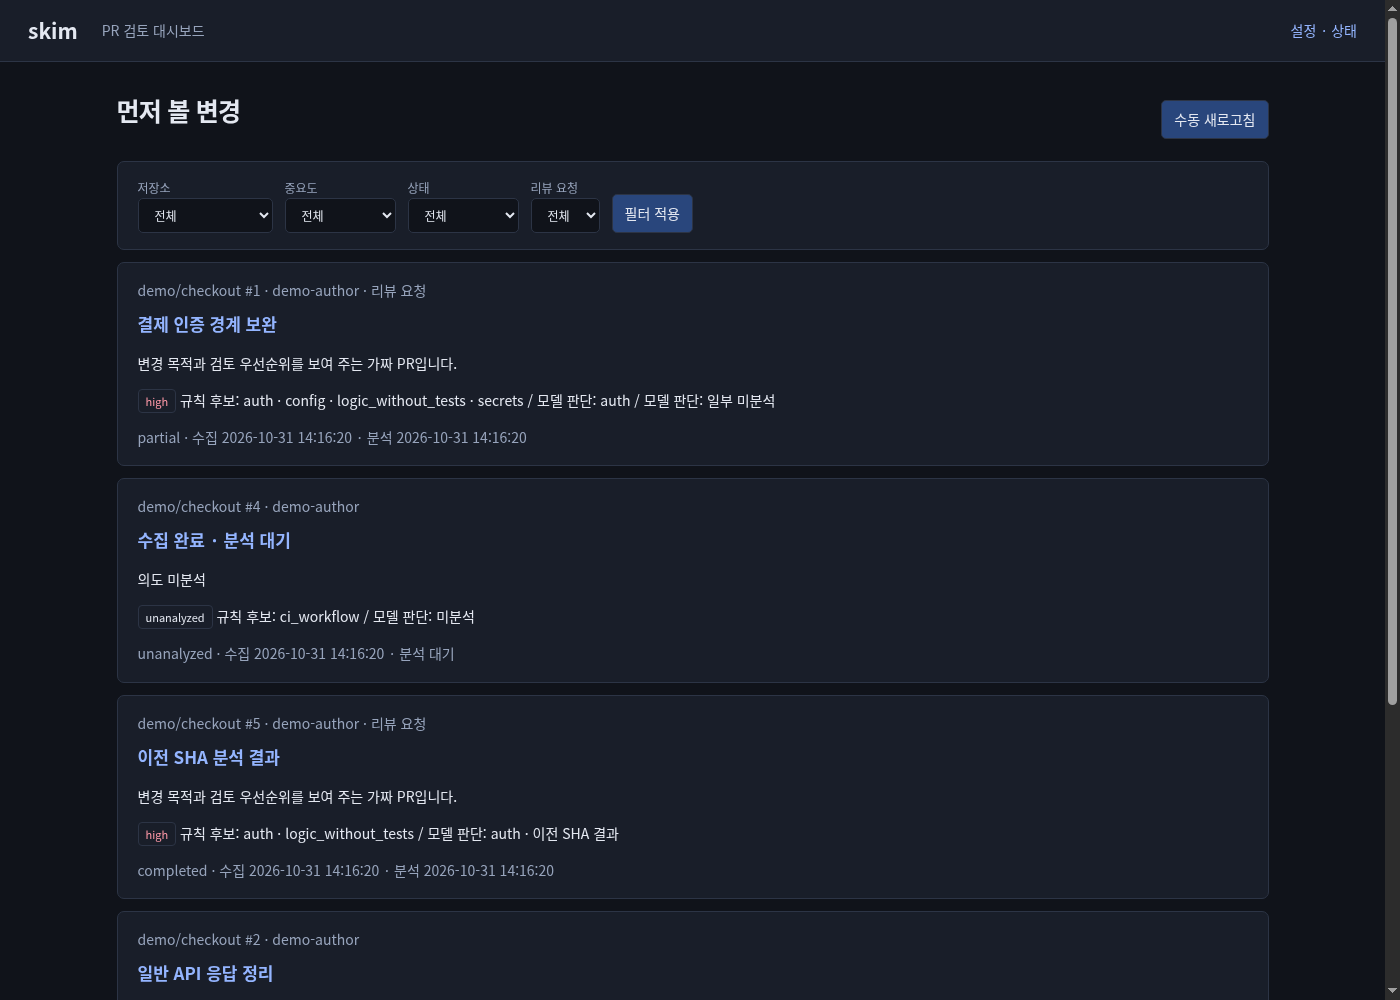
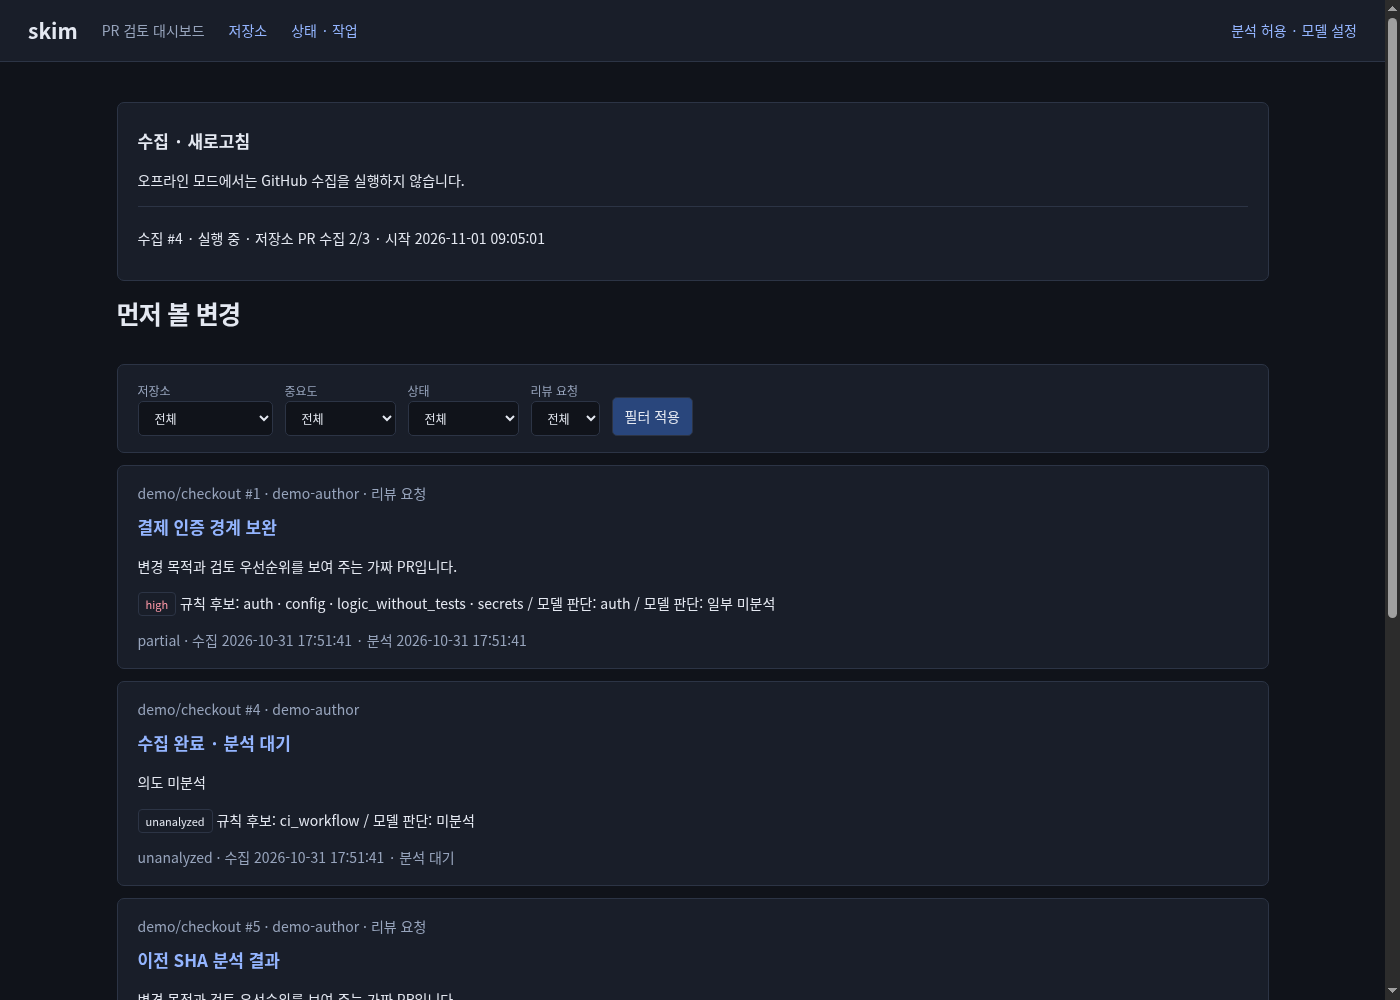
문서: README 웹 우선 흐름과 화면 스크린샷

diff --git a/README.md b/README.md
@@ -1,35 +1,15 @@
 # skim
 
 GitHub PR을 모아 변경 목적과 중요도를 보여주는 로컬 검토 도우미입니다.
+터미널에서 **`skim`만 실행하면 로컬 서버가 시작되고 브라우저가 열립니다.**
+웹에서 저장소 연결, 분석 허용, 수집·새로고침, PR 분석, 상태 점검과 모델 설정을 진행하세요.
 
 ![데모 데이터로 본 skim 대시보드](docs/images/dashboard.png)
 
-## 주요 기능
+## 설치와 시작
 
-- 등록 저장소의 열린 PR과 개인·팀 리뷰 요청을 한곳에서 확인합니다.
-- 허용한 저장소만 Codex로 분석합니다. 변경 목적과 파일·변경 단위별 중요도를 보여줍니다.
-- 규칙 후보와 미분석 부분을 먼저 보여줍니다. 목록 필터와 diff 상세 보기를 제공합니다.
-- 로컬 웹에서 5분 주기 수집과 수동 갱신을 지원합니다.
-- 본인이 작성한 PR은 조건이 맞으면 로컬 세션 조회 앱인 Sessio의 세션으로 연결합니다.
-
-## 요구 사항
-
-- Python 3.11 이상. 별도 Python 패키지는 필요하지 않습니다.
-- Git과 GitHub CLI(`gh`). GitHub.com 로그인과 대상 저장소 읽기 권한이 필요합니다.
-- 분석 시 Codex CLI 안정 버전 0.165.0 이상과 로그인이 필요합니다. 필수 격리 플래그 검사도 통과해야 합니다.
-- 분석 전 `skim codex-home init`과 `skim doctor --probe`를 실행해야 합니다.
-
-설치 후 사용할 터미널에서 로그인하세요.
-
-```bash
-gh auth login
-codex login
-```
-
-각 CLI의 로그인 절차가 완료되어야 합니다. 조직 저장소는 SSO 승인과 팀 접근 권한도 확인하세요.
-데모는 GitHub·Codex 로그인 없이 볼 수 있습니다.
-
-## 설치
+Python 3.11 이상, Git, GitHub CLI(`gh`)가 필요합니다. 별도 Python 패키지는 필요하지 않습니다.
+분석에는 로그인된 Codex CLI 안정 버전 0.165.0 이상과 필수 격리 플래그 지원이 필요합니다.
 
 Mac 터미널에서 실행합니다.
 
@@ -38,152 +18,146 @@ git clone https://github.com/nowgnas/skim.git
 cd skim
 ./setup.sh
 export PATH="$HOME/.local/bin:$PATH"
+gh auth login
+skim
 ```
 
-`설치 완료: ~/.local/bin/skim (PATH에 ~/.local/bin 추가)`가 출력됩니다.
-설치 스크립트는 이 저장소의 `bin/skim`을 가리키는 심볼릭 링크를 만듭니다.
-다운로드나 관리자 권한은 필요하지 않습니다. 저장소 폴더를 유지하세요.
-PATH 설정은 현재 터미널에 적용됩니다. 계속 사용하려면 같은 `export` 줄을 `~/.zshrc`에 추가하세요.
+설치 스크립트는 `~/.local/bin/skim`에서 저장소의 `bin/skim`으로 심볼릭 링크를 만듭니다.
+저장소 폴더를 유지하세요. PATH를 계속 적용하려면 위 `export` 줄을 `~/.zshrc`에 추가하세요.
+GitHub.com 로그인과 대상 저장소 읽기 권한이 필요하며, 조직은 SSO 승인과 팀 접근 권한도 확인하세요.
+
+브라우저가 열리지 않으면 터미널에 출력된 URL로 접속하세요. 이미 실행 중이면 기존 서버에서 새 진입 URL을 발급합니다.
+서버를 종료하려면 실행한 터미널에서 Ctrl-C를 누르세요.
+
+## 웹에서 사용하기
+
+### 1. 저장소 연결
+
+상단 **저장소**에서 **접근 가능한 저장소 불러오기**를 누르세요.
+현재 `gh` 계정이 접근할 수 있는 개인·조직 저장소 목록에서 선택하거나, `owner/repo`를 직접 입력해 연결할 수 있습니다.
+목록 조회와 직접 입력의 읽기 접근 확인은 백그라운드 작업으로 실행됩니다.
+등록만으로 LLM 분석을 허용하지 않습니다.
+
+연결 해제는 로컬 추적을 해제합니다. 리뷰 요청으로 남은 PR과 분석 정책은 보존되므로,
+코드 전송 동의를 철회하려면 설정에서 분석 허용도 별도로 끄세요.
+
+![데모 저장소 연결 화면](docs/images/repos.png)
+
+### 2. 분석 허용과 모델 설정
+
+**분석 허용 · 모델 설정**에서 저장소별 또는 조직별 LLM 분석을 명시적으로 허용하세요. 기본값은 꺼짐입니다.
+저장소의 명시적 허용·거부가 조직 정책보다 우선하며, 조직 설정 상속도 선택할 수 있습니다.
+조직 허용은 리뷰 요청으로 발견된 저장소를 포함해 해당 조직 저장소 전체에 적용됩니다.
+
+**허용하면 PR 코드·diff와 제목·설명이 Codex CLI를 통해 모델 서비스로 전송됩니다.
+민감 정보 제외는 완전하지 않으며 서비스의 전송·보존 정책이 적용됩니다.**
+저장소 연결, 수집, 분석 버튼 클릭만으로 동의가 켜지지 않습니다.
+
+같은 화면 아래 **모델 설정**의 `codex_model` 입력에 계정에서 사용할 수 있는 모델명을 저장하세요.
+파일 값과 실제 적용값을 함께 표시합니다. `SKIM_CODEX_MODEL` 환경 변수가 파일 설정보다 우선합니다.
+모델을 바꾸면 다음 작업부터 적용되며 실행 중인 작업은 기존 모델을 사용합니다.
+
+![데모 분석 허용과 모델 입력 화면](docs/images/settings.png)
+
+실제 분석을 처음 준비할 때는 터미널에서 다음을 실행하세요.
 
 ```bash
-skim --help
-```
-
-`repo`, `analysis`, `collect`, `analyze`, `web`, `doctor`, `codex-home` 명령 목록이 표시됩니다.
-
-## 사용법
-
-아래 `owner/repo`는 실제 GitHub 저장소 이름으로 바꾸세요.
-
-### 1. 저장소 등록
-
-```bash
-skim repo add owner/repo
-skim repo list
-```
-
-등록 완료 메시지와 추적 목록이 표시됩니다. 등록만으로 분석 전송을 허용하지 않습니다.
-
-### 2. 분석 전송 허용
-
-코드를 모델 서비스로 보내도 되는 저장소만 명시적으로 허용하세요.
-
-```bash
-skim analysis allow owner/repo
-```
-
-코드 전송 안내와 `저장소 분석 정책을 변경했습니다.`가 출력됩니다.
-허용을 취소하려면 다음을 실행합니다.
-
-```bash
-skim analysis deny owner/repo
-```
-
-정책 변경 메시지가 표시되고 이후 해당 저장소의 분석 전송이 차단됩니다.
-
-### 3. PR 수집
-
-```bash
-skim collect
-```
-
-`PR N개를 수집했습니다.`가 출력됩니다. 열린 PR과 리뷰 요청의 스냅샷을 로컬에 저장합니다.
-
-### 4. 모델 지정과 분석 준비
-
-`~/.config/skim/config.json`의 기존 JSON 객체에 `"codex_model"` 항목을 추가하는 것을 권장합니다.
-`SKIM_HOME`을 쓰면 `$SKIM_HOME/config/config.json`을 편집합니다.
-다음 모델명은 예시입니다. 계정에서 사용할 수 있는 모델을 지정하세요.
-
-```json
-{
-  "codex_model": "gpt-5.4"
-}
-```
-
-설정 후 분석 준비를 실행합니다.
-
-```bash
+codex login
 skim codex-home init
 skim doctor --probe
 ```
 
-인증 링크 생성 메시지와 항목별 검사 결과가 표시됩니다. 모두 통과하면 분석할 수 있습니다.
-`--probe`는 저장소 코드 없이 실제 모델을 호출합니다. 성공 기록은 7일간 유효합니다.
-모델을 바꾸면 다시 검사하세요.
+`--probe`는 저장소 코드 없이 **실제 모델을 호출**하는 격리 검사입니다. 성공 기록은 7일간 유효하며,
+모델 변경 후에는 다시 검사해야 합니다. 웹은 probe를 자동 실행하지 않습니다.
+환경 변수로 모델을 지정했다면 서버 실행과 probe에 같은 값을 사용하세요.
 
-현재 터미널에서만 모델을 바꾸려면 `export SKIM_CODEX_MODEL=gpt-5.4`를 사용할 수 있습니다.
-환경 변수는 파일 설정보다 우선합니다. **이 override를 쓰면 `analyze`나 `web`을 실행하는 각 터미널에 같은 값을 설정해야 합니다.**
-새 터미널에서 변수가 빠지면 파일 설정 또는 미지정 모델로 돌아가 probe 기록이 일치하지 않아 분석이 `blocked`될 수 있습니다.
-설정한 모델은 doctor 출력에서 확인하고, 모델을 바꾼 터미널에서 `skim doctor --probe`를 다시 실행하세요.
+### 3. 수집·새로고침과 PR 분석
 
-### 5. 분석 실행
+대시보드 또는 **상태 · 작업**의 **지금 수집**을 누르면 열린 PR과 개인·팀 리뷰 요청을 수집합니다.
+온라인 서버는 5분 주기로도 수집합니다. 수집 후 자동 분석은 허용된 저장소에만 적용되며,
+수동 분석과 동일하게 예산·격리 검사를 따릅니다.
 
-```bash
-skim analyze
-```
+PR을 열어 diff, 변경 목적, 파일·변경 단위별 중요도와 미분석 부분을 확인하세요.
+**이 PR 분석**은 해당 PR의 최신 수집 스냅샷을 분석합니다. 최신 SHA가 없으면 먼저 수집하세요.
+수동 draft 분석도 동의·예산 검사를 따르며, 하루 20회 모델 호출 예산을 우회하지 않습니다.
+다른 분석이 대기·실행 중이면 완료 후 다시 요청하라는 안내를 확인하세요.
 
-허용된 저장소의 최신 열린 PR 스냅샷을 분석합니다. 기본적으로 draft는 건너뜁니다.
-`스냅샷 N: completed` 또는 일부 제외·누락이 있는 `partial` 등의 상태가 표시됩니다.
-`failed`, `blocked`, `deferred`가 있으면 종료 코드 1을 반환합니다. `blocked`이면 `skim doctor --probe`로 점검하세요.
-대상이 없으면 `분석 가능한 허용 스냅샷이 없습니다.`가 출력됩니다.
+본인이 작성한 PR은 조건이 맞으면 로컬 세션 조회 앱인 Sessio의 세션으로 연결됩니다.
 
-### 6. 웹 대시보드 열기
+### 4. 상태와 작업 진행 확인
 
-```bash
-skim web
-```
+**상태 · 작업**에서 **상태 점검 실행**을 누르면 `gh` 인증, Codex 설치·전용 홈,
+격리 probe 기록, 모델과 로컬 권한을 점검합니다. 일반 doctor는 실제 모델을 호출하거나 인증·권한을 수정하지 않습니다.
 
-로컬 접속 URL이 출력되고 브라우저가 열립니다. PR 목록·필터·상세와 분석 결과를 확인하세요.
-실행 중에는 주기적으로 수집·분석합니다. 터미널에서 Ctrl-C로 종료합니다.
+수집, 분석, 저장소 조회, doctor는 공통 백그라운드 큐에서 실행됩니다.
+화면에서 대기·실행·완료·실패·보류 상태와 단계·진행 건수(알 수 있을 때)를 확인할 수 있습니다.
+진행 중에는 2초 간격으로 상태를 갱신하며, 기존 분석 결과도 계속 볼 수 있습니다.
+최근 작업 목록과 실패 시 복구 안내를 확인하세요.
 
-### 7. 상태 점검
-
-```bash
-skim doctor
-```
-
-GitHub 인증, Codex 홈·버전·격리 플래그·probe 기록, 모델과 로컬 권한을 표시합니다.
-실패 항목이 있으면 종료 코드 1을 반환합니다. 일반 점검은 모델을 호출하지 않습니다.
+![데모 상태 점검과 최근 작업 목록](docs/images/jobs.png)
 
 ## 데모로 보기
 
-저장소 폴더에서 실행합니다. 설치를 마치고 PATH를 적용한 상태여야 합니다.
+저장소 폴더에서 실행하세요. GitHub·Codex 로그인 없이 가짜 PR 5개를 볼 수 있습니다.
 
 ```bash
-"${SKIM_PYTHON:-python3}" scripts/demo_seed.py --home /tmp/skim-demo
+python3 scripts/demo_seed.py --home /tmp/skim-demo
 SKIM_HOME=/tmp/skim-demo skim web --offline
 ```
 
-가짜 PR 5개가 생성되고 브라우저에서 대시보드가 열립니다.
-GitHub·모델 서비스에 접속하지 않습니다. 위 스크린샷도 데모 데이터 화면입니다.
-이미 데모를 생성한 경로라면 첫 줄을 생략하고 웹만 실행하세요.
+GitHub·모델 서비스에 접속하지 않습니다. 이 README의 스크린샷도 데모 데이터입니다.
+이미 생성한 데모는 웹만 실행하세요. 새 데모에는 비어 있는 별도 홈을 지정하세요.
+오프라인에서는 수집·분석·상태 점검·저장소 조회를 실행하지 않습니다.
+
+## CLI 하위 명령
+
+일상 작업은 웹에서 진행할 수 있으며, 터미널에서는 다음 명령도 사용할 수 있습니다.
+`owner/repo`와 `owner`는 실제 저장소·조직 이름으로 바꾸세요.
+
+| 명령 | 용도 |
+| --- | --- |
+| `skim` | 로컬 서버 시작과 브라우저 열기 (`skim web`과 동일) |
+| `skim web --no-browser` | 브라우저 자동 열기 없이 실행 (`--port`, `--offline` 지원) |
+| `skim repo add owner/repo` / `skim repo list` / `skim repo remove owner/repo` | 추적 저장소 관리 |
+| `skim analysis allow owner/repo` / `skim analysis deny owner/repo` | 저장소 분석 전송 허용·거부 |
+| `skim analysis allow --org owner` / `skim analysis deny --org owner` | 조직 분석 전송 허용·거부 |
+| `skim analysis reset owner/repo` | 저장소 정책을 지우고 조직 설정 상속 |
+| `skim collect` | PR 수집 |
+| `skim analyze` | 허용된 최신 스냅샷 분석 (기본 draft 제외, `--include-drafts` 지원) |
+| `skim doctor` | 모델 호출 없이 상태 점검 |
+| `skim codex-home init` | 분석 전용 인증 링크 초기화 |
+| `skim doctor --probe` | 코드 없이 실제 모델 격리 검사 |
+| `skim --help` | 전체 명령 도움말 |
 
 ## 보안과 데이터
 
-- GitHub API는 읽기 전용입니다. 리뷰 작성·승인·머지를 하지 않습니다.
-- 조직 저장소를 포함해 분석을 허용하지 않은 저장소의 코드는 모델 서비스로 보내지 않습니다. 저장소·조직 정책으로 허용할 수 있으며 저장소 정책이 우선합니다. 조직 허용은 리뷰 요청으로 발견된 해당 조직 저장소에도 적용됩니다.
-- 수집한 원문 diff는 로컬에 저장합니다. 허용된 분석 입력은 Codex의 모델 서비스로 전송됩니다. 민감 정보 가림은 완전하지 않습니다.
-- 설정은 `~/.config/skim/config.json`, DB는 `~/.local/share/skim/skim.db`, diff 캐시는 같은 데이터 디렉터리의 `cache/`에 저장합니다.
-- `SKIM_HOME`을 지정하면 설정은 `$SKIM_HOME/config/`, 데이터는 `$SKIM_HOME/data/`에 저장합니다. 전용 디렉터리는 0700, 설정·DB 파일은 0600입니다.
-- 웹은 `127.0.0.1`에서만 열립니다. 출력된 접속 URL에는 일회용 토큰이 있으므로 공유하지 마세요.
-- 중요도는 검토 순서의 참고 자료이며 보안 감사나 정확성 보증이 아닙니다. 현재 실제 모델 회귀 평가가 없어 출시가 차단된 상태입니다. [출시 체크리스트](docs/release-checklist.md)를 확인하세요.
+- GitHub API는 읽기 전용입니다. 리뷰 작성·수정·승인·머지를 하지 않습니다.
+- 분석을 허용하지 않은 저장소 코드는 모델 서비스로 보내지 않습니다. 실행 직전에도 정책을 재확인합니다.
+  수집한 원문 diff는 로컬에 저장하며, 허용된 분석 입력은 Codex 모델 서비스로 전송합니다.
+- 웹은 **`127.0.0.1`**에만 바인딩합니다. 접속 URL의 일회용 진입 토큰은 60초 동안 한 번만 사용할 수 있으므로 공유하지 마세요.
+  진입 후 `HttpOnly; SameSite=Strict` 세션 쿠키를 사용하며 서버 재시작 시 세션이 사라집니다.
+- 모든 변경은 **POST만** 허용합니다. 세션별 CSRF 토큰과 정확한 `Origin`·`Host` 검사로 변경 요청을 보호합니다.
+  세션 수립 POST는 일회용 진입 토큰과 `Origin`·`Host` 검사로 보호합니다. GET 조회는 작업을 시작하지 않습니다.
+- 설정은 `~/.config/skim/config.json`, DB는 `~/.local/share/skim/skim.db`, diff는 같은 데이터 디렉터리의 `cache/`에 저장합니다.
+  `SKIM_HOME`을 지정하면 `$SKIM_HOME/config/`와 `$SKIM_HOME/data/`를 사용합니다.
+  전용 디렉터리는 0700, 설정·DB 파일은 0600입니다.
+- 중요도는 검토 순서의 참고 자료입니다. 현재 실제 모델 회귀 평가가 없어 출시가 차단된 상태입니다.
+  [출시 체크리스트](docs/release-checklist.md)를 확인하세요.
 
 ## 문제 해결
 
 | 증상 | 조치 |
 | --- | --- |
-| `skim: command not found` | 설치 절의 PATH 설정을 적용하세요. 저장소에서는 `bin/skim --help`로 확인할 수 있습니다. |
-| Python 버전 오류 | Python 3.11 이상을 설치하세요. `SKIM_PYTHON` 환경 변수로 실행 파일 경로를 지정할 수 있습니다. |
-| GitHub 인증·수집 실패 | `gh auth login` 후 `skim doctor`로 확인하세요. 조직 SSO 승인·비공개 저장소 권한·팀 멤버십도 필요합니다. |
-| 분석 대상이 없음 | `skim repo list`에서 허용 상태를 확인하고 `skim collect`를 실행하세요. draft는 기본 제외됩니다. |
-| Codex 홈 검사 실패 | `codex login`을 확인하세요. 초기화 때와 같은 `CODEX_HOME`을 사용해야 합니다. |
-| Codex 사용 후 원본 CLI 로그인 실패 | 인증 refresh token이 교체되면 원본 Codex 로그인도 무효화될 수 있습니다. 원본 CLI에서 `codex login`을 다시 실행하세요. |
-| 전용 Codex 홈에 다른 파일이 있음 | `skim codex-home init --reset`으로 전용 홈 내부를 초기화하세요. 원본 인증 링크 대상은 삭제하지 않습니다. 이후 probe를 다시 실행하세요. |
-| probe 실패·만료 또는 모델 변경 | `skim doctor --probe`를 실행하세요. 실패하면 실제 분석이 차단됩니다. 수집과 웹은 사용할 수 있습니다. |
-| 브라우저가 안 열리거나 “진입 토큰 만료 또는 사용됨” | 진입 토큰은 60초 동안 한 번만 사용할 수 있습니다. `skim web`을 다시 실행해 새 URL을 받으세요. 서버가 실행 중이면 기존 서버에서 새 URL을 발급합니다. |
-| 데모 생성 시 비어 있는 홈을 요구함 | 이미 만든 데모는 웹만 실행하세요. 새로 만들려면 다른 `--home` 경로와 같은 `SKIM_HOME`을 사용하세요. |
+| `skim: command not found` | 설치 절의 PATH 설정을 적용하거나 저장소에서 `bin/skim`을 실행하세요. |
+| Python 버전 오류 | Python 3.11 이상을 설치하세요. `SKIM_PYTHON`으로 실행 파일을 지정할 수 있습니다. |
+| 저장소 조회·수집 실패 | `gh auth login`과 웹 상태 점검으로 확인하세요. 조직 SSO·비공개 저장소·팀 접근 권한도 필요합니다. |
+| 분석이 차단됨 | 분석 허용, 최신 수집 스냅샷, 웹 상태 점검을 확인하세요. probe 만료·실패·모델 변경 시 `skim doctor --probe`를 실행하세요. |
+| Codex 홈 검사 실패 | `codex login`과 초기화 때의 `CODEX_HOME`을 확인하세요. 전용 홈의 다른 파일은 `skim codex-home init --reset` 후 probe로 복구하세요. |
+| 원본 Codex CLI 로그인 실패 | 인증 refresh token 교체로 무효화될 수 있습니다. 원본 CLI에서 `codex login`을 다시 실행하세요. |
+| 진입 토큰 만료·사용됨 | `skim`을 다시 실행해 새 URL을 받으세요. |
+| 모델 설정과 실제 적용값이 다름 | 서버 터미널의 `SKIM_CODEX_MODEL`을 확인하고 probe에도 같은 모델을 사용하세요. |
 
-정책 상속, 분석 예산·캐시, Codex 격리, Sessio 연결과 보안 한계는 [상세 문서](docs/02-details.md)에 정리했습니다.
-웹 인증과 화면 동작은 [웹 문서](docs/04-web.md)를 참고하세요.
-설계는 [설계 문서](docs/01-design.md)를 참고하세요.
+정책 상속·분석 예산·캐시·격리·Sessio 연결은 [상세 문서](docs/02-details.md),
+웹 인증과 화면 동작은 [웹 문서](docs/04-web.md),
+웹 우선 전환의 구현 상태는 [웹 우선 설계 부록](docs/05-web-first.md),
+전체 설계는 [설계 문서](docs/01-design.md)를 참고하세요.

diff --git a/docs/05-web-first.md b/docs/05-web-first.md
@@ -1,9 +1,13 @@
 # 웹 우선 사용 흐름 설계 부록
 
 요청: “skim은 기본으로 페이지를 열어서 해야 되고 웹 페이지에서 기능을 사용할 수 있어야 해 레포 연결도 할 수 있어야 해”.
-이 문서는 [기본 설계](01-design.md)와 [현재 로컬 대시보드](04-web.md)를 확장하는 후속 구현 계획이다.
-PR A는 기본 웹 진입과 저장소·설정 화면을, PR B는 공통 백그라운드 작업과 진행 표시를 구현했다(아래 각 구현 경계 절).
-아래 전체 계획 중 사용 안내와 스크린샷은 PR C 범위다.
+이 문서는 [기본 설계](01-design.md)와 [로컬 대시보드](04-web.md)를 확장한 웹 우선 흐름의 설계와 구현 기록이다.
+
+- **PR A ([#23](https://github.com/nowgnas/skim/pull/23)) 완료**: 기본 웹 진입과 저장소 연결·분석 허용·모델 설정 화면.
+- **PR B ([#24](https://github.com/nowgnas/skim/pull/24)) 완료**: 공통 백그라운드 작업 큐와 진행 표시, PR 분석·수집·상태 점검.
+- **PR C 완료**: 웹 우선 한국어 README와 데모 화면 4종을 포함한 사용 안내.
+
+아래에는 원래 계획과 각 PR의 구현 경계·검증 범위를 함께 남긴다. 실제 모델 회귀 평가와 출시 차단 조건은 그대로다.
 
 ## 진입과 화면
 
